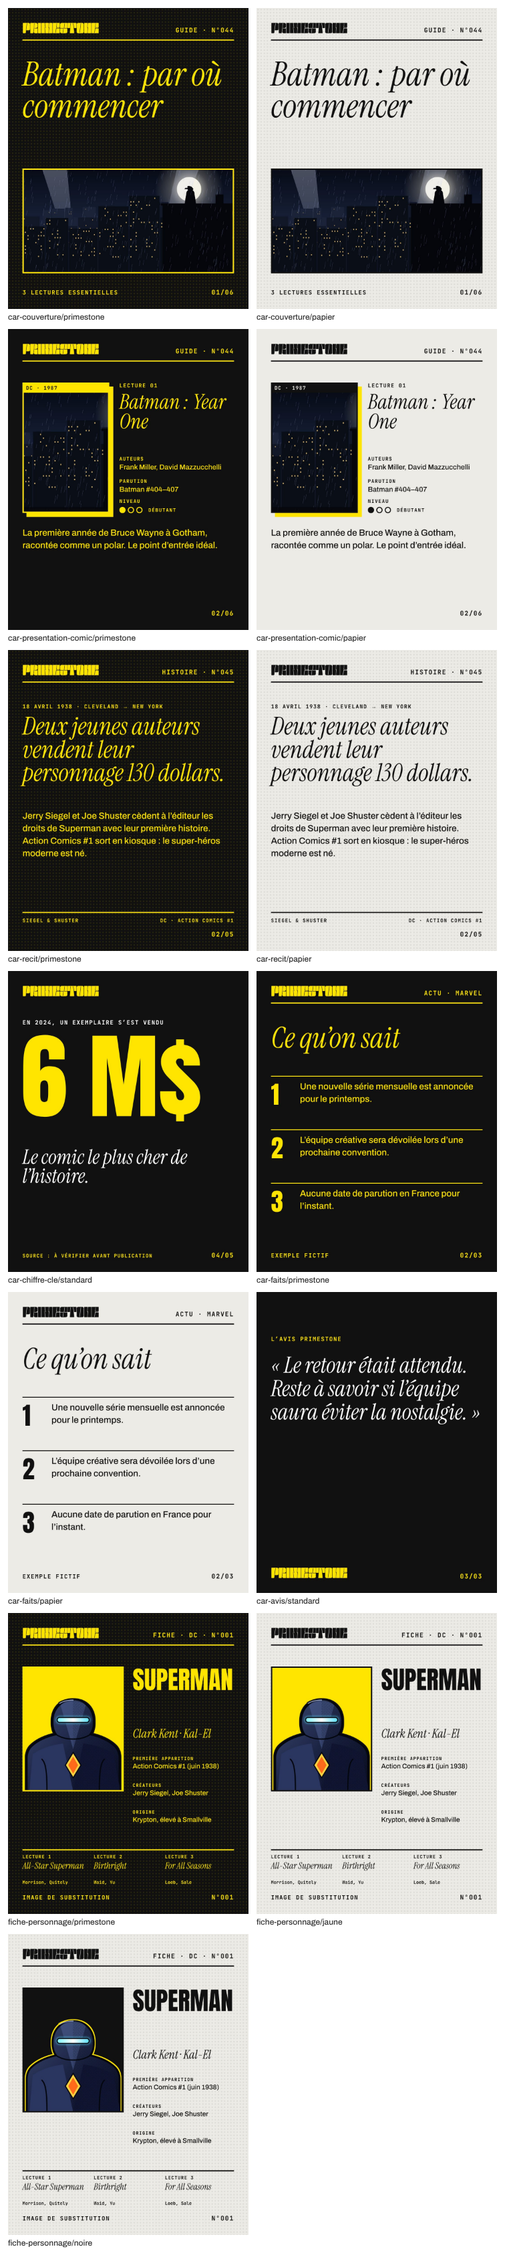
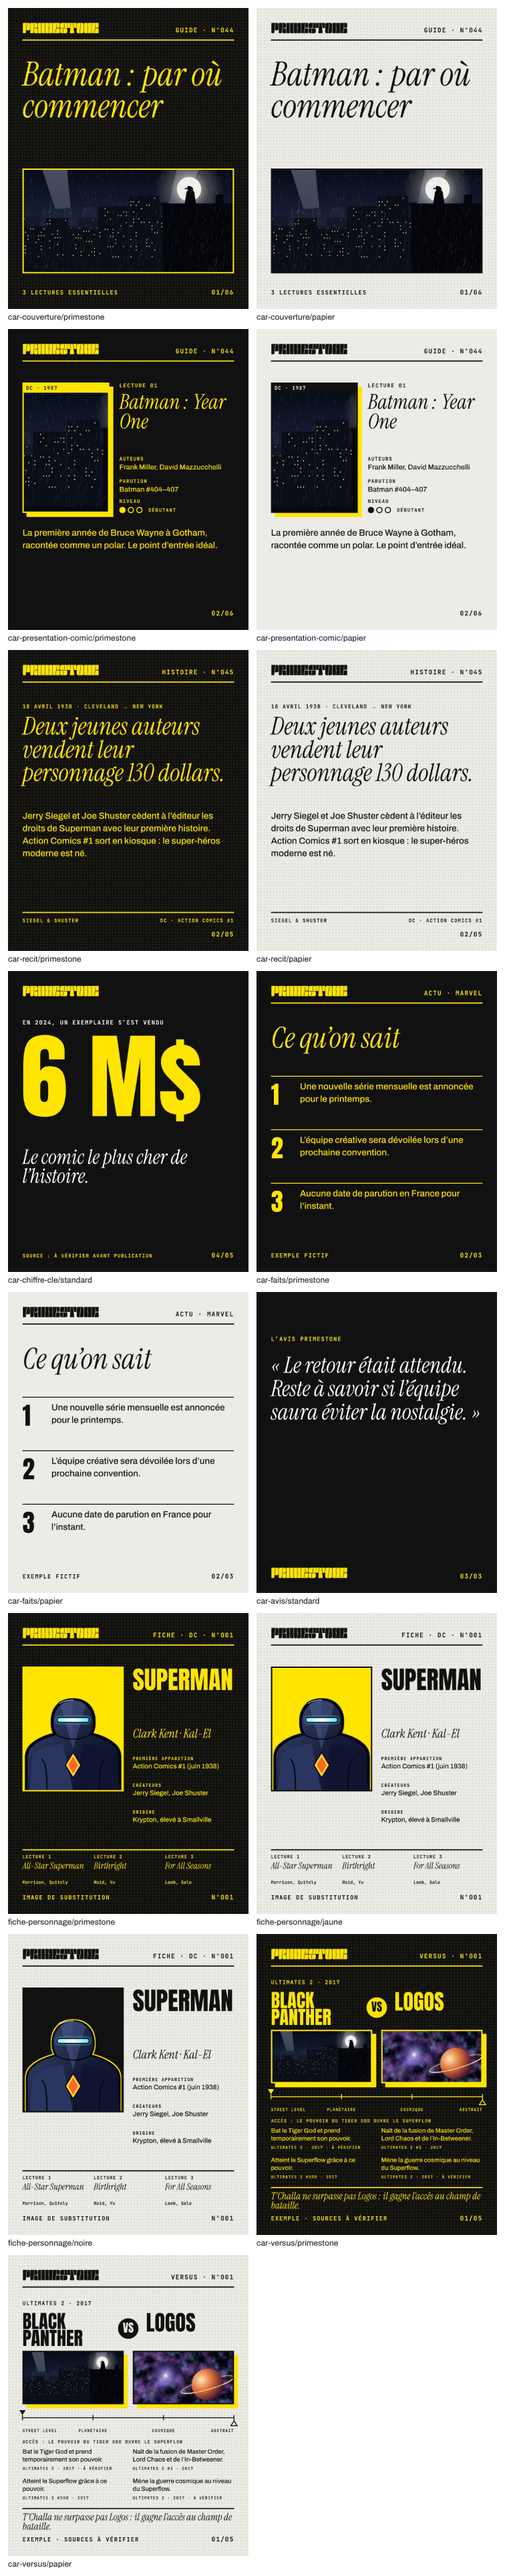
Kiosque : carrousel « versus » (échelle, accès, exploits sourcés, verdict)
Nouveau gabarit 4:5 pour les vidéos VS : deux camps face à face avec
portraits, échelle de puissance (street level, planétaire, cosmique,
abstrait), condition d'accès, deux exploits par camp avec leur source
(titre, numéro, année) et verdict conditionnel. Variantes Primestone
(par défaut) et Papier. Valeurs d'exemple marquées « sources à vérifier ».

Claude-Session: https://claude.ai/code/session_01C9J7sP4hWmoAXddhwaZBtJ

diff --git a/templates/_systeme/kiosque.js b/templates/_systeme/kiosque.js
@@ -100,4 +100,42 @@ export default {
       };
     } }])),
   },
+  'car-versus': {
+    format: 'carrousel', prefixe: 'CAR', nom: 'Carrousel · versus', description: 'Deux camps face à face : échelle de puissance, condition d’accès, exploits sourcés et verdict conditionnel.',
+    champs: [T('surtitre', 'Surtitre (série · année)', 'Ultimates 2 · 2017'), T('nomA', 'Camp A', 'Black Panther'), T('nomB', 'Camp B', 'Logos'),
+      { id: 'niveauA', type: 'choix', label: 'Échelle du camp A', options: ['1', '2', '3', '4'], defaut: '1', conseil: '1 street level · 2 planétaire · 3 cosmique · 4 abstrait' },
+      { id: 'niveauB', type: 'choix', label: 'Échelle du camp B', options: ['1', '2', '3', '4'], defaut: '4', conseil: '1 street level · 2 planétaire · 3 cosmique · 4 abstrait' },
+      T('acces', 'Condition d’accès', 'Accès : le pouvoir du Tiger God ouvre le Superflow', 'Ce qui permet au camp le plus bas d’agir au niveau de l’autre (facultatif)'),
+      TL('exploitA1', 'Exploit A 1', 'Bat le Tiger God et prend temporairement son pouvoir.'), T('sourceA1', 'Source A 1', 'Ultimates 2 · 2017 · à vérifier', 'Titre, numéro, année'),
+      TL('exploitA2', 'Exploit A 2', 'Atteint le Superflow grâce à ce pouvoir.'), T('sourceA2', 'Source A 2', 'Ultimates 2 #100 · 2017'),
+      TL('exploitB1', 'Exploit B 1', 'Naît de la fusion de Master Order, Lord Chaos et de l’In-Betweener.'), T('sourceB1', 'Source B 1', 'Ultimates 2 #3 · 2017'),
+      TL('exploitB2', 'Exploit B 2', 'Mène la guerre cosmique au niveau du Superflow.'), T('sourceB2', 'Source B 2', 'Ultimates 2 · 2017 · à vérifier'),
+      TL('verdict', 'Verdict conditionnel', 'T’Challa ne surpasse pas Logos : il gagne l’accès au champ de bataille.'),
+      I('imageA', 'Camp A', 'noir'), I('imageB', 'Camp B', 'cosmos'), ...commun('Versus', 'N°001', '01/05', 'Exemple · sources à vérifier')],
+    variantes: duo((d, ctx, P) => {
+      const demi = (L() - 40) / 2, xB = G.m + demi + 40, NIV = ['Street level', 'Planétaire', 'Cosmique', 'Abstrait'];
+      const zA = zone(ctx, 'imageA', { x: G.m, y: 430, w: demi, h: 240, mode: 'couvrir', label: 'Camp A', requis: true });
+      const zB = zone(ctx, 'imageB', { x: xB, y: 430, w: demi, h: 240, mode: 'couvrir', label: 'Camp B', requis: true });
+      // Échelle : 4 paliers ; A au-dessus de la ligne (plein), B en dessous (contour)
+      const yE = 730, px = (n) => G.m + ((Math.min(4, Math.max(1, +n || 1)) - 1) / 3) * L();
+      const echelle = `<g id="echelle"><rect x="${G.m}" y="${yE - 2}" width="${L()}" height="4" fill="${P.encre}"/>`
+        + NIV.map((n, i) => { const x = G.m + (i / 3) * L(); return `<rect x="${x - 2}" y="${yE - 12}" width="4" height="24" fill="${P.encre}"/>` + mono(`niv${i + 1}`, n, x, yE + 64, P.encre, { taille: 18, ancre: i === 0 ? 'start' : i === 3 ? 'end' : 'middle' }); }).join('')
+        + `<path data-ps-champ="niveauA" d="M${px(d.niveauA) - 14} ${yE - 34} h28 l-14 22 z" fill="${P.encre}"/><path data-ps-champ="niveauB" d="M${px(d.niveauB) - 14} ${yE + 36} h28 l-14 -22 z" fill="none" stroke="${P.encre}" stroke-width="4"/></g>`;
+      const exploit = (cote, i, x, y) => texte(ctx, d, `exploit${cote}${i}`, `Exploit ${cote} ${i}`, { ...CORPS, ...fixe(28), l: demi, h: 84, maxLignes: 2, interligne: 1.25 }, haut(y, x, P.encre))
+        + mono(`source${cote}${i}`, d[`source${cote}${i}`], x, y + 92, P.encre, { taille: 18 });
+      const badge = `<g id="vs"><circle cx="${W / 2}" cy="${330}" r="46" fill="${P.encre}"/><text x="${W / 2}" y="${348}" text-anchor="middle" font-family="${M.display.family}" font-size="52" fill="${P.fond}">VS</text></g>`;
+      return {
+        fond: fond(P.fond) + trame(P.encre),
+        illustration: cadre(zA, P.encre, C.y) + image('imageA', d.imageA, zA) + bordure(zA, P.encre) + cadre(zB, P.encre, C.y) + image('imageB', d.imageB, zB) + bordure(zB, P.encre),
+        graphisme: echelle + badge + `<rect x="${G.m}" y="${1135}" width="${L()}" height="5" fill="${P.encre}"/>`,
+        textes: mono('surtitre', d.surtitre, G.m, 225, P.encre, { taille: 24 })
+          + texte(ctx, d, 'nomA', 'Camp A', { police: 'display', tMax: 96, tMin: 54, l: demi - 60, h: 160, maxLignes: 2, interligne: 0.9 }, haut(260, G.m, P.encre), { titre: true, requis: true })
+          + texte(ctx, d, 'nomB', 'Camp B', { police: 'display', tMax: 96, tMin: 54, l: demi - 60, h: 160, maxLignes: 2, interligne: 0.9 }, haut(260, xB + 60, P.encre), { titre: true, requis: true })
+          + mono('acces', d.acces, G.m, 845, P.encre, { taille: 20 })
+          + exploit('A', 1, G.m, 872) + exploit('B', 1, xB, 872) + exploit('A', 2, G.m, 1004) + exploit('B', 2, xB, 1004)
+          + texte(ctx, d, 'verdict', 'Verdict', { ...SERIF, tMax: 44, tMin: 32, l: L(), h: 100, maxLignes: 2 }, haut(1158, G.m, P.encre), { requis: true }),
+        marque: masthead(d, P.encre) + pied(d, P.encre),
+      };
+    }),
+  },
 };
